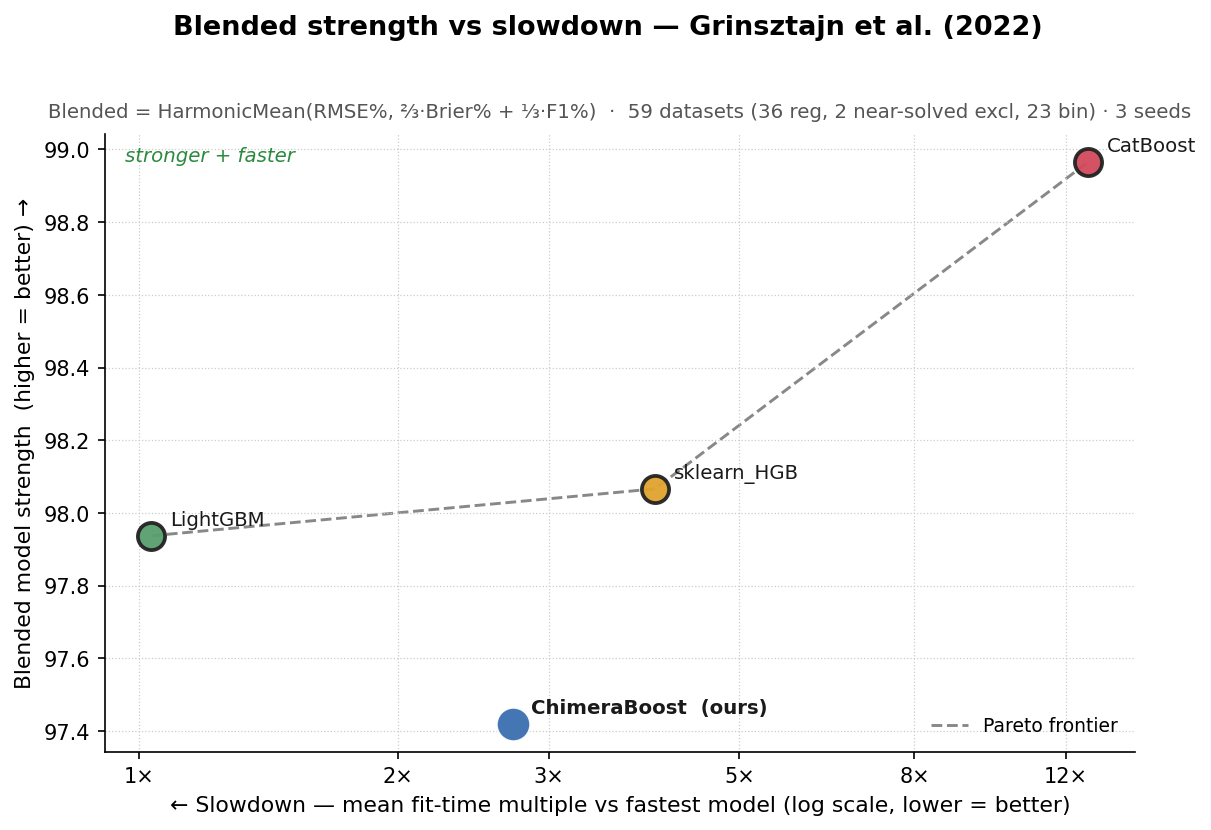
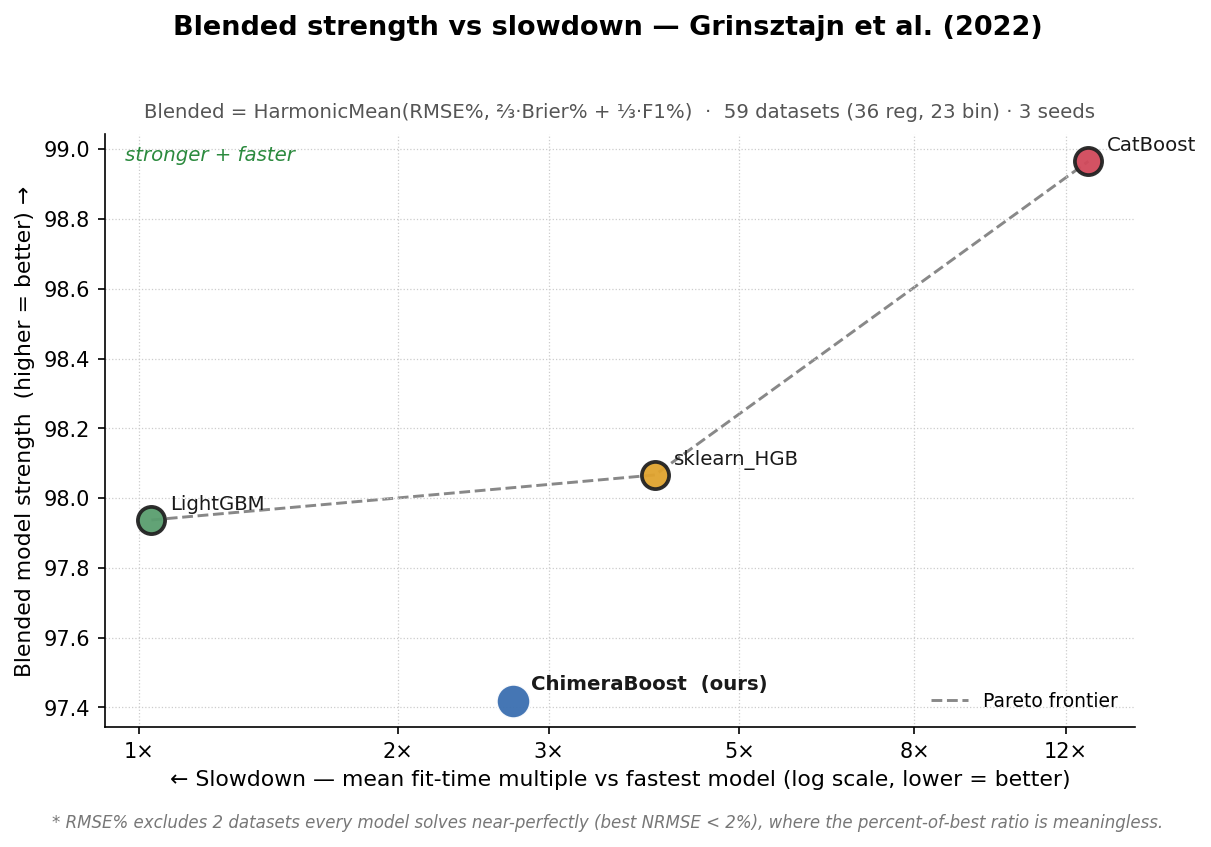
Release 0.9.1: tidy README + benchmark tables, correct speed claims
- Move the 'near-solved excl from RMSE' note out of the table/caption clutter
  into a proper footnote (RMSE* + full sentence) in summary.png, pareto.png,
  and the summarize/bench text tables.
- Correct CatBoost speed claims: ~5x faster (geomean on the 59-dataset
  Grinsztajn 2022 benchmark), was a stale ~30x from the old OpenML suite.
- README: add the blended-strength Pareto image, drop stale ChimeraBoostEns10
  references, update the reproduce command to --grinsztajn, refresh accuracy gaps.

diff --git a/benchmarks/make_pareto.py b/benchmarks/make_pareto.py
@@ -145,14 +145,18 @@ def format_text(data, label=None):
             f"{f(s['f1'],'%',7)}{star}"
         )
     seeds = f" | {meta['seeds']} seeds" if meta.get("seeds") else ""
-    excl = (f", {meta['n_reg_excl']} near-solved excl from RMSE"
-            if meta.get("n_reg_excl") else "")
     lines.append(
         f"Grinsztajn et al. (2022) — {meta['n_total']} datasets "
-        f"({meta['n_reg']} reg{excl}, {meta['n_bin']} binary){seeds}")
+        f"({meta['n_reg']} reg, {meta['n_bin']} binary){seeds}")
     lines.append(
         "Blended = HarmonicMean(RMSE%, 2/3*Brier% + 1/3*F1%) | "
         "all % vs best (higher=better) | Slowdown vs fastest (lower=better)")
+    if meta.get("n_reg_excl"):
+        n = meta["n_reg_excl"]
+        lines.append(
+            f"* RMSE excludes {n} dataset{'s' if n != 1 else ''} that every model "
+            "solves near-perfectly (best NRMSE < 2%), where the percent-of-best "
+            "ratio is meaningless.")
     return "\n".join(lines)
 
 
@@ -217,16 +221,21 @@ def render_image(data, out_path):
     seeds = f" · {meta['seeds']} seeds" if meta.get("seeds") else ""
     fig.suptitle("Blended strength vs slowdown — Grinsztajn et al. (2022)",
                  fontsize=13, fontweight="bold", y=0.98)
-    excl = (f", {meta['n_reg_excl']} near-solved excl"
-            if meta.get("n_reg_excl") else "")
     ax.set_title(
         f"Blended = HarmonicMean(RMSE%, ⅔·Brier% + ⅓·F1%)  ·  "
-        f"{meta['n_total']} datasets ({meta['n_reg']} reg{excl}, {meta['n_bin']} bin)"
+        f"{meta['n_total']} datasets ({meta['n_reg']} reg, {meta['n_bin']} bin)"
         f"{seeds}",
         fontsize=9.5, color="#555", pad=8)
     ax.legend(loc="lower right", fontsize=9, frameon=False)
 
-    fig.tight_layout(rect=[0, 0, 1, 0.96])
+    if meta.get("n_reg_excl"):
+        n = meta["n_reg_excl"]
+        fig.text(0.5, 0.012,
+                 f"* RMSE% excludes {n} dataset{'s' if n != 1 else ''} every model "
+                 "solves near-perfectly (best NRMSE < 2%), where the percent-of-best "
+                 "ratio is meaningless.",
+                 ha="center", fontsize=8, color="#777", style="italic")
+    fig.tight_layout(rect=[0, 0.03 if meta.get("n_reg_excl") else 0, 1, 0.96])
     fig.savefig(out_path, dpi=150, bbox_inches="tight", facecolor="white")
     plt.close(fig)
 

diff --git a/benchmarks/make_tables.py b/benchmarks/make_tables.py
@@ -128,7 +128,7 @@ def mean_over_datasets(per_dataset, datasets_in_bin):
 
 def render_table(data, row_labels, col_labels, col_groups, title, out_path,
                  highlight_row="ChimeraBoost", kind="pct", col_kinds=None,
-                 subtitle=None):
+                 subtitle=None, footnote=None):
     """Render one table as a PNG.
 
     data: 2-D list/array shape (n_rows, n_cols); cells are floats or None.
@@ -174,7 +174,7 @@ def render_table(data, row_labels, col_labels, col_groups, title, out_path,
     cell_h = 0.55
     label_w = 1.9
     fig_w = label_w + n_cols * cell_w + 0.6
-    fig_h = (n_rows + header_rows) * cell_h + 1.2
+    fig_h = (n_rows + header_rows) * cell_h + 1.2 + (0.45 if footnote else 0.0)
 
     fig, ax = plt.subplots(figsize=(fig_w, fig_h), dpi=150)
     ax.set_xlim(0, fig_w)
@@ -333,6 +333,11 @@ def render_table(data, row_labels, col_labels, col_groups, title, out_path,
             x += cell_w
         y += cell_h
 
+    # Optional footnote sentence below the table (e.g. the RMSE exclusion note).
+    if footnote:
+        ax.text(0.25, y + 0.28, footnote, ha="left", va="top",
+                fontsize=8.5, color="#666", style="italic")
+
     plt.tight_layout()
     fig.savefig(out_path, dpi=150, bbox_inches="tight", facecolor="white")
     plt.close(fig)
@@ -393,7 +398,7 @@ def main():
 
     if reg_ds_all:
         sum_cols.append(pct_vs_best(rmse, reg_ds_scored, lower_is_better=True))
-        sum_col_labels.append("RMSE")
+        sum_col_labels.append("RMSE*" if reg_near else "RMSE")
         sum_col_kinds.append("pct")
     if bin_ds_all:
         sum_cols.append(pct_vs_best(f1, bin_ds_all, lower_is_better=False))
@@ -435,11 +440,14 @@ def main():
         sum_table, models, sum_col_labels, sum_groups,
         title="ChimeraBoost vs other GBMs",
         subtitle=("avg % vs best  ·  Calib = miscalibration ×10⁻³ (lower better)  "
-                  f"·  fit time as × slowdown  ·  Grinsztajn et al. (2022)"
-                  + (f"  ·  {len(reg_near)} near-solved excl. from RMSE"
-                     if reg_near else "")),
+                  f"·  fit time as × slowdown  ·  Grinsztajn et al. (2022)"),
         out_path=os.path.join(out_dir, "summary.png"),
         col_kinds=sum_col_kinds,
+        footnote=(
+            f"* The RMSE column excludes {len(reg_near)} dataset"
+            f"{'s' if len(reg_near) != 1 else ''} that every model solves "
+            "near-perfectly (best NRMSE < 2%), where the percent-of-best ratio "
+            "is meaningless." if reg_near else None),
     )
 
     print(f"Wrote summary.png to {out_dir}")

diff --git a/benchmarks/summarize.py b/benchmarks/summarize.py
@@ -191,13 +191,16 @@ def format_table(data, label=None):
         row = f"{m:<22}" + "".join(_fmt(cols[c].get(m), c) for c in COLS)
         lines.append(row)
     seeds = f" | {meta['seeds']} seeds" if meta.get("seeds") else ""
-    excl = (f" [{meta['n_reg_excl']} near-solved excl from RMSE]"
-            if meta.get("n_reg_excl") else "")
     cap = (f"Grinsztajn et al. (2022) — {meta['n_total']} datasets "
-           f"({meta['n_reg']} reg{excl}, {meta['n_bin']} binary, "
+           f"({meta['n_reg']} reg, {meta['n_bin']} binary, "
            f"{meta['n_mul']} multiclass){seeds} | "
            f"100% = best | Calib MCB x10^-3 lower=better | Speed vs fastest")
     lines.append(cap)
+    if meta.get("n_reg_excl"):
+        n = meta["n_reg_excl"]
+        lines.append(
+            f"* Reg RMSE% excludes {n} dataset{'s' if n != 1 else ''} every model "
+            "solves near-perfectly (best NRMSE < 2%), where the ratio is meaningless.")
     return "\n".join(lines)
 
 

diff --git a/chimeraboost/__init__.py b/chimeraboost/__init__.py
@@ -20,4 +20,4 @@ __all__ = [
     "ChimeraBoostRegressor",
     "ChimeraBoostClassifier",
 ]
-__version__ = "0.9.0"
+__version__ = "0.9.1"

diff --git a/README.md b/README.md
@@ -1,5 +1,5 @@
 # chimeraboost
-### What if CatBoost, but 30x faster, slightly worse, and all in Python?
+### What if CatBoost, but ~5x faster, slightly worse, and all in Python?
 
 > ⚠️ **Project is in active development:** breaking changes should be expected.
 
@@ -29,14 +29,13 @@ reg.fit(X, y)
 ```
 
 <p><a href="https://github.com/bbstats/chimeraboost/blob/main/images/summary.png"><img src="https://raw.githubusercontent.com/bbstats/chimeraboost/main/images/summary.png" width="500" alt="Benchmark summary" /></a></p>
+<p><a href="https://github.com/bbstats/chimeraboost/blob/main/images/pareto.png"><img src="https://raw.githubusercontent.com/bbstats/chimeraboost/main/images/pareto.png" width="500" alt="Blended strength vs slowdown Pareto" /></a></p>
 <p><a href="https://github.com/bbstats/chimeraboost/blob/main/images/slowdown_hist.png"><img src="https://raw.githubusercontent.com/bbstats/chimeraboost/main/images/slowdown_hist.png" width="500" alt="Slowdown distribution" /></a></p>
-
-<sub><i><code>ChimeraBoostEns10</code> is ChimeraBoost bagged with 10 base gradient boosters.</i></sub>
 
 * **Reproduce the benchmark**
 
 ```
-python benchmarks/run_benchmarks.py --openml --seeds 5 --save --models ChimeraBoost ChimeraBoostEns10 sklearn_HGB CatBoost LightGBM
+python benchmarks/run_benchmarks.py --grinsztajn --save
 ```
 
 * **What?**
@@ -46,7 +45,7 @@ python benchmarks/run_benchmarks.py --openml --seeds 5 --save --models ChimeraBo
         * Automatic early stopping, with automatic grouped splitting for the validation set available
     * Supports regression, quantile regression, binary and multiclass classification.
     * Categorical features, sample weights, and automatic early stopping
-    * Within ~3% F1 / ~5% RMSE of CatBoost on a 34-dataset OpenML benchmark, at ~30× the speed
+    * Matches CatBoost within ~0.5% F1 and ~2% RMSE (% of best) on the 59-dataset Grinsztajn (2022) tabular benchmark, at ~5× the speed
 
 * **Why?**
     * I want to be able to modify my GBDT library at will